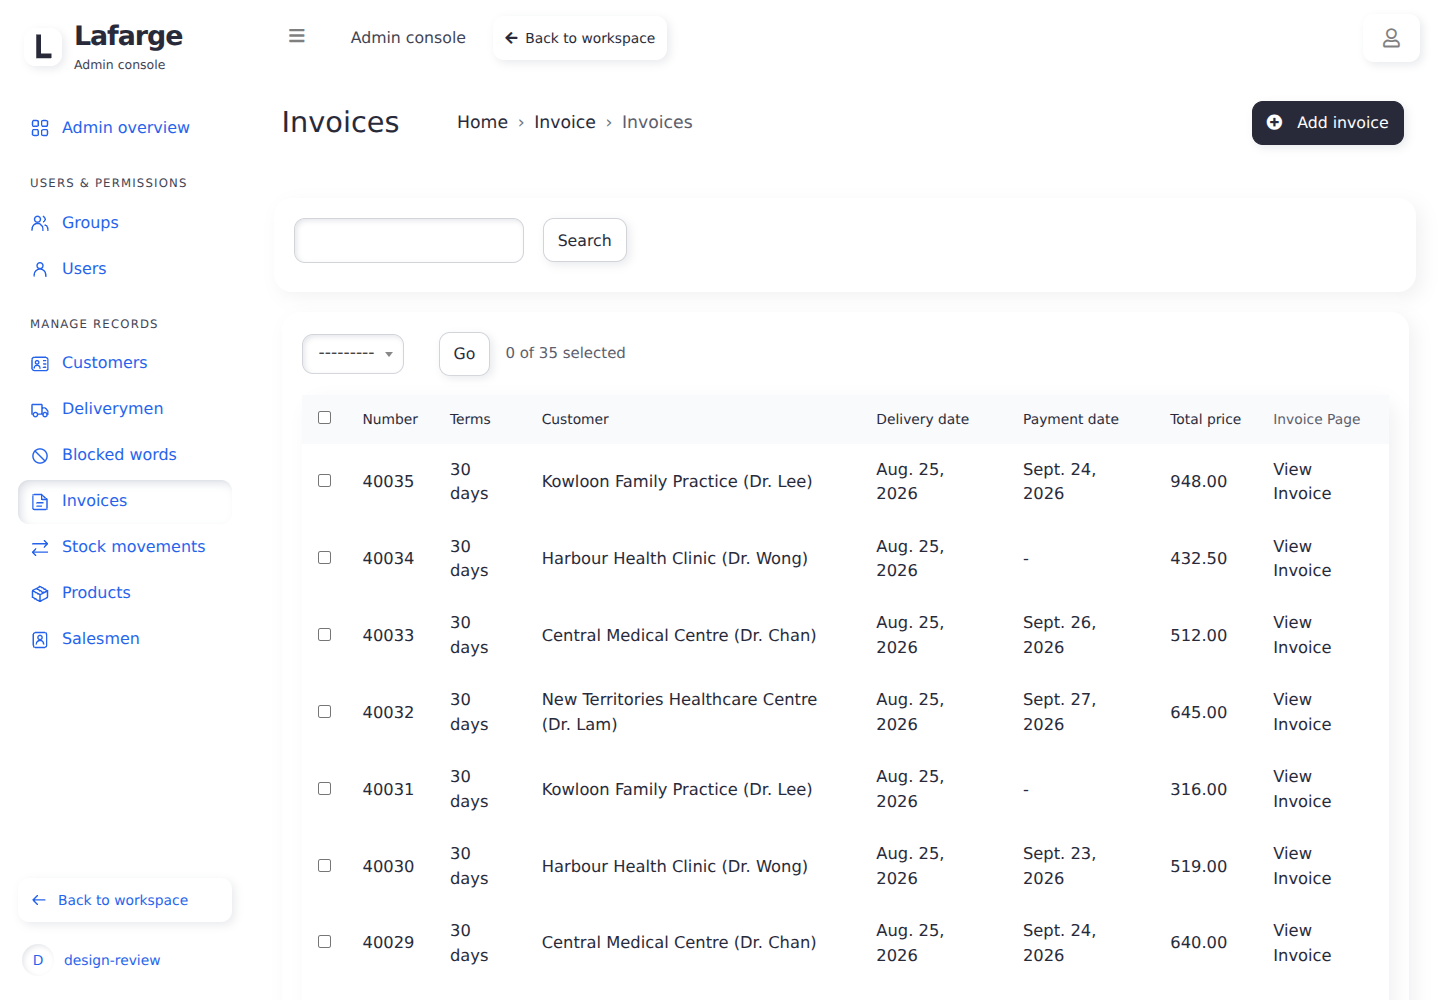
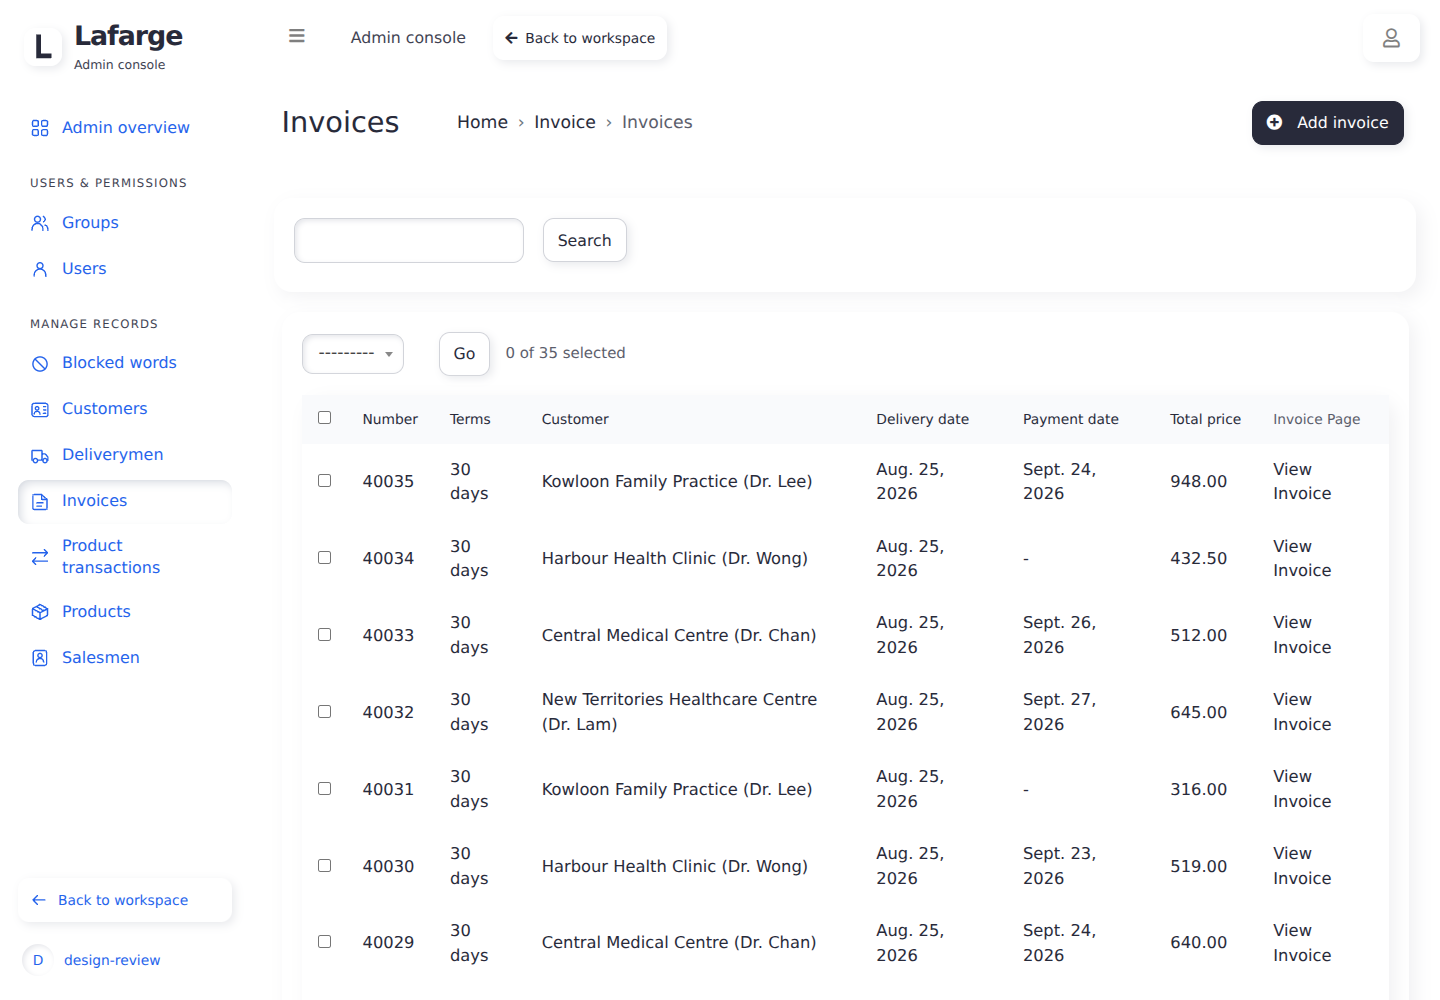
Use consistent Blocked words and Product transactions labels

Changed region(s): [[0.0, 0.527, 0.1562, 0.682], [0.0, 0.403, 0.125, 0.465], [0.0, 0.341, 0.125, 0.372]]

diff --git a/lafarge/templates/admin/includes/navigation_item_name.html b/lafarge/templates/admin/includes/navigation_item_name.html
@@ -1,1 +1,1 @@
-{% load i18n %}{% if model.model_str == 'invoice.forbidden_word' %}{% trans "Blocked words" %}{% elif model.model_str == 'invoice.deliveryman' %}{% trans "Deliverymen" %}{% elif model.model_str == 'invoice.salesman' %}{% trans "Salesmen" %}{% elif model.model_str == 'invoice.producttransaction' %}{% trans "Stock movements" %}{% else %}{{ model.name }}{% endif %}
+{% load i18n %}{% if model.model_str == 'invoice.deliveryman' %}{% trans "Deliverymen" %}{% elif model.model_str == 'invoice.salesman' %}{% trans "Salesmen" %}{% else %}{{ model.name }}{% endif %}

diff --git a/lafarge/invoice/models.py b/lafarge/invoice/models.py
@@ -13,10 +13,15 @@ from django.db.models import Q
 from django.db.models.signals import post_save, post_delete
 from django.dispatch import receiver
 from django.utils import timezone
+from django.utils.translation import gettext_lazy as _
 
 
 class Forbidden_Word(models.Model):
     word = models.CharField(max_length=255, unique=True)
+
+    class Meta:
+        verbose_name = _("blocked word")
+        verbose_name_plural = _("blocked words")
 
     def __str__(self):
         return self.word
